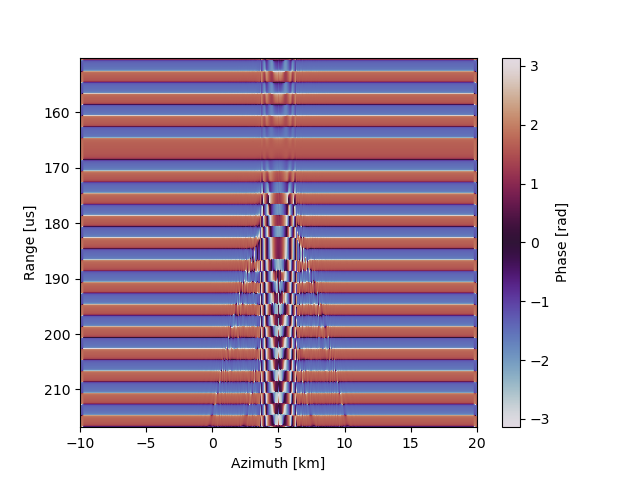
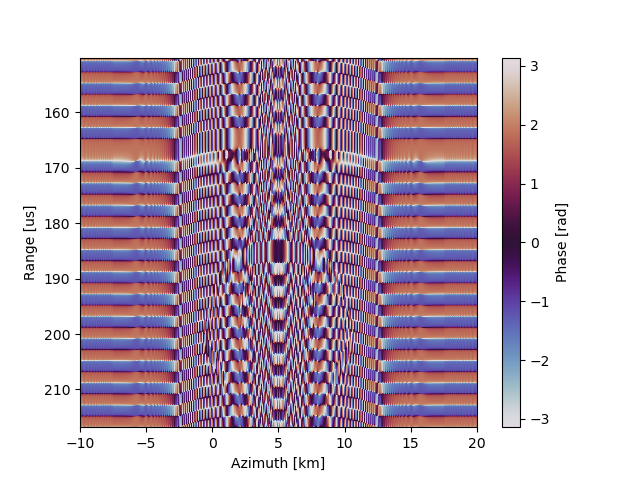
Fixed occasional Nan trace from floating point error

diff --git a/examples/igarss_examples/CUDA/code/params.py b/examples/igarss_examples/CUDA/code/params.py
@@ -13,8 +13,8 @@ params = {
     "subsurface_gain": 98,   # Subsurface antenna gain [dB]
     "range_resolution": 300,  # range resolution [m]
     "polarization": "HH",     # polarization (HH, VV, HV, VH)
-    "aperture": 3,           # aperture (from nadir->edge) [deg]
-    #"aperture": 8,           # aperture (from nadir->edge) [deg]
+    #"aperture": 5,           # aperture (from nadir->edge) [deg]
+    "aperture": 8,           # aperture (from nadir->edge) [deg]
 
     # receive window parameters
     "rx_window_m":  10e3,          # receive window length [m]
@@ -24,7 +24,7 @@ params = {
     # surface parameters
     "sigma": 1,              # sigma [?]
     "rms_height": 0.4,       # surface roughness [m]
-    "buff": 1.2,             # buffer on estimated facet count [.]
+    "buff": 1.05,            # buffer on estimated facet count [.]
 
     # atmosphere/subsurface parameters
     "eps_1": 1.0,            # permittivity of medium 1 

diff --git a/src/terrain.py b/src/terrain.py
@@ -183,6 +183,14 @@ class Terrain():
         uvecs      = np.reshape(self.uvectors, (xx.shape[0]*xx.shape[1], 3))
         vvecs      = np.reshape(self.vvectors, (xx.shape[0]*xx.shape[1], 3))
 
+        i = 0
+        totLines = xx.shape[0]*xx.shape[1]
+
         with open(filename, 'w') as f:
             for x, y, z, (nx, ny, nz), (ux, uy, uz), (vx, vy, vz) in zip(xx.flatten(), yy.flatten(), zz.flatten(), norms, uvecs, vvecs):
+                if i % 100 == 0:
+                    print(f"Writing out {filename}: {round((100*i+1)/totLines, 2):5.2f} %", end="    \r")
                 f.write(f"{x},{y},{z}:{nx},{ny},{nz}:{ux},{uy},{uz}:{vx},{vy},{vz}\n")
+                i += 1
+
+        print("")

diff --git a/examples/igarss_examples/CUDA/code/output.py b/examples/igarss_examples/CUDA/code/output.py
@@ -16,7 +16,10 @@ rdrgrm = []
 for i, f in enumerate(filenames):
     if i < params['ns']:
         arr = np.loadtxt(f).T
-        rdrgrm.append(arr[0] + 1j * arr[1])
+        trc = arr[0] + 1j * arr[1]
+        if np.isnan(trc).any():
+            print(f"Found NaN in file: {f}")
+        rdrgrm.append(trc)
 
 rdrgrm = np.array(rdrgrm).T
 
